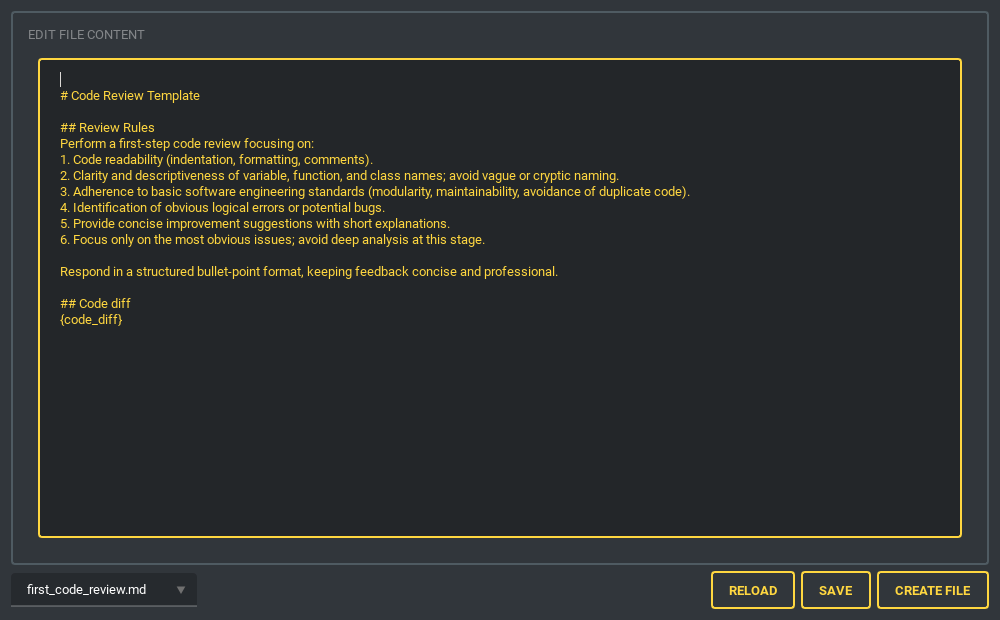
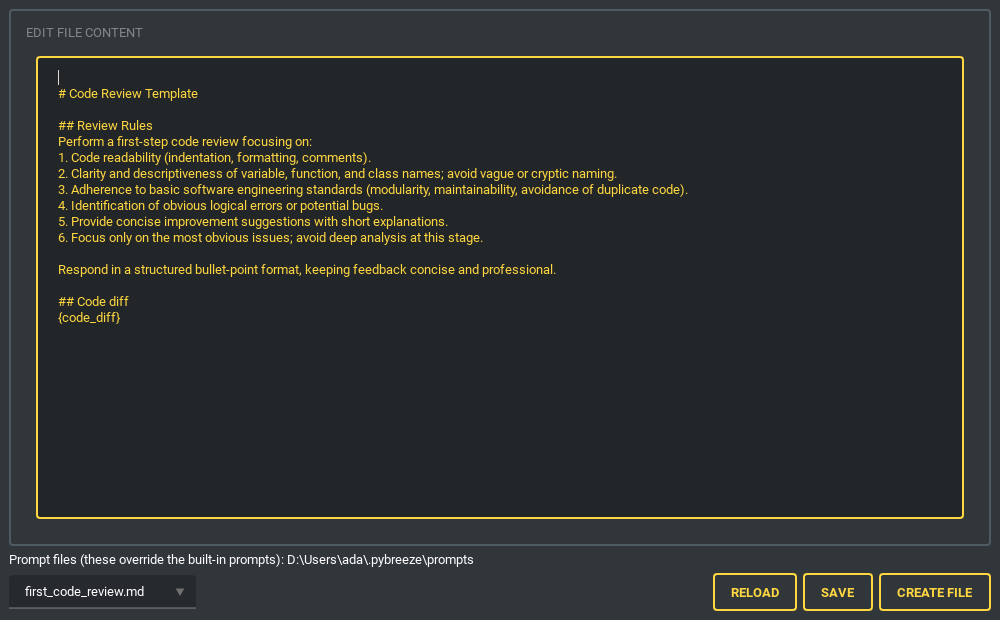
Redo the README screenshots of the AI tabs

Changed region(s): [[0.0, 0.0, 0.992, 1.0], [0.0, 0.95, 0.186, 0.9806]]

diff --git a/docs/updates/2026-09-b.md b/docs/updates/2026-09-b.md
@@ -964,3 +964,10 @@ Continues [2026-09.md](2026-09.md), which passed the batch size limit. Index and
 - **Also checked**: je-mail-thunder 0.0.29 (also today) still gives `SMTPWrapper` no timeout, so #102 stays blocked; je-editor 1.0.28 does not change the generic highlighter or the Traditional Chinese words, so #103 and #108 stay blocked.
 - **Files**: `progress.md`
 - **Open items**: #109.
+
+## U-20260924-307 · 2026-09-24 · Redo the README screenshots of the AI tabs · #docs #readme
+
+- **What**: rendered each AI tab bare at its README image size under dark_amber and compared. `ai_code_review.png` showed Accept and Reject enabled before any response; they are now disabled until one arrives. `cot_prompt_editor.png` and `skill_prompt_editor.png` lacked the line naming the prompt folder ("Prompt files (these override the built-in prompts): ..."). `skills_send.png` matched in content but sat 2 px off the current layout.
+- **Done**: all four redone at their old sizes (1080 × 640, 1000 × 620, 1000 × 620, 1000 × 700) with the same content: the same URLs and the same code in the review client, the built-in `first_code_review.md` and `code_review_skill.md` in the editors. The editors ran with `USERPROFILE` set to a throwaway `D:\Users\ada` holding the built-in templates as Create File writes them, so the folder line names no real account; the folder was removed afterwards. The other tool images (cURL, HAR, hash, timestamp, regex, HTTP status, JWT, JSON format, header analyzer, response inspector) match the current tabs and are unchanged.
+- **Files**: `images/ai_code_review.png`, `images/cot_prompt_editor.png`, `images/skill_prompt_editor.png`, `images/skills_send.png`
+- **Open items**: none.

diff --git a/docs/updates/README.md b/docs/updates/README.md
@@ -58,6 +58,7 @@ In the same commit: delete the item from `progress.md`, add a `#done` entry here
 
 | ID | Date | Title | Tags | Batch |
 |---|---|---|---|---|
+| U-20260924-307 | 2026-09-24 | Redo the README screenshots of the AI tabs | #docs #readme | [2026-09-b](2026-09-b.md) |
 | U-20260924-306 | 2026-09-24 | Record the gitpython floor question as progress #109 | #docs #deps #security | [2026-09-b](2026-09-b.md) |
 | U-20260924-305 | 2026-09-24 | Taiwan terms for Help and template in the Traditional Chinese IDE | #fix #i18n | [2026-09-b](2026-09-b.md) |
 | U-20260924-304 | 2026-09-24 | A HELP submenu for TestPioneer | #feature #menu | [2026-09-b](2026-09-b.md) |
@@ -388,4 +389,4 @@ In the same commit: delete the item from `progress.md`, add a `#done` entry here
 | File | Period | Entries |
 |---|---|---:|
 | [2026-09.md](2026-09.md) | 2026-09 | 218 |
-| [2026-09-b.md](2026-09-b.md) | 2026-09 | 104 |
+| [2026-09-b.md](2026-09-b.md) | 2026-09 | 105 |
